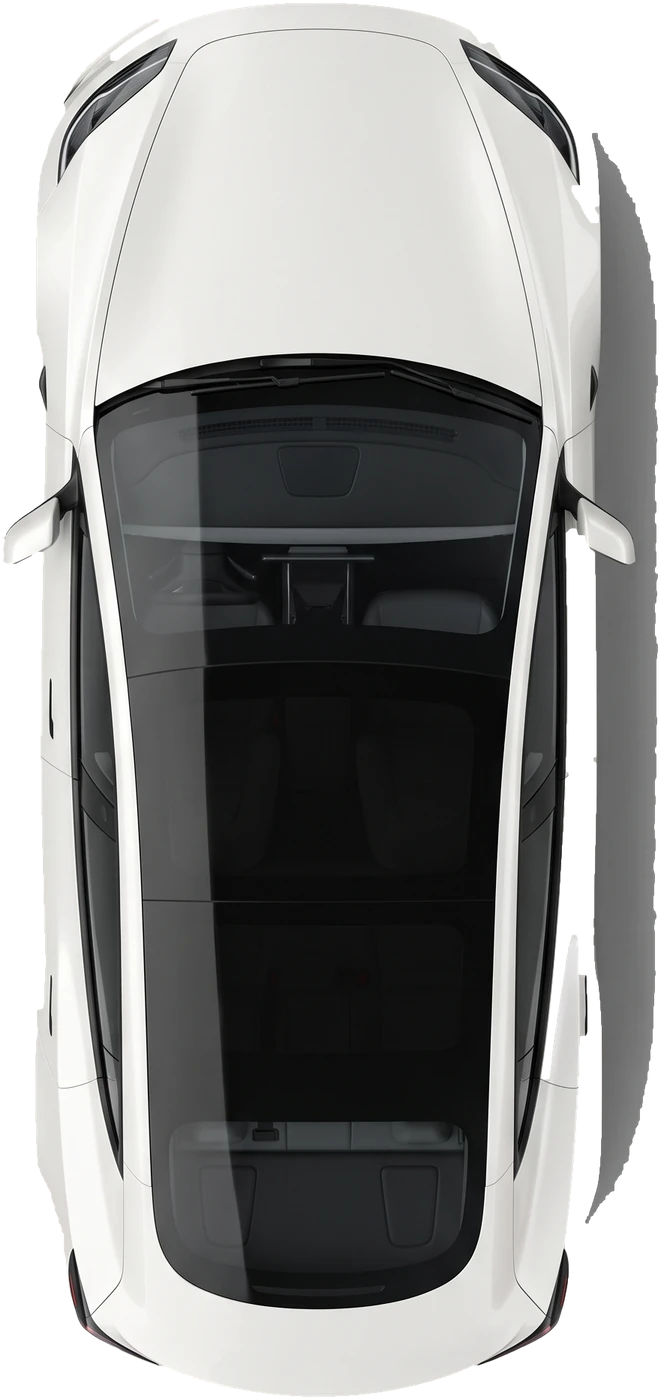
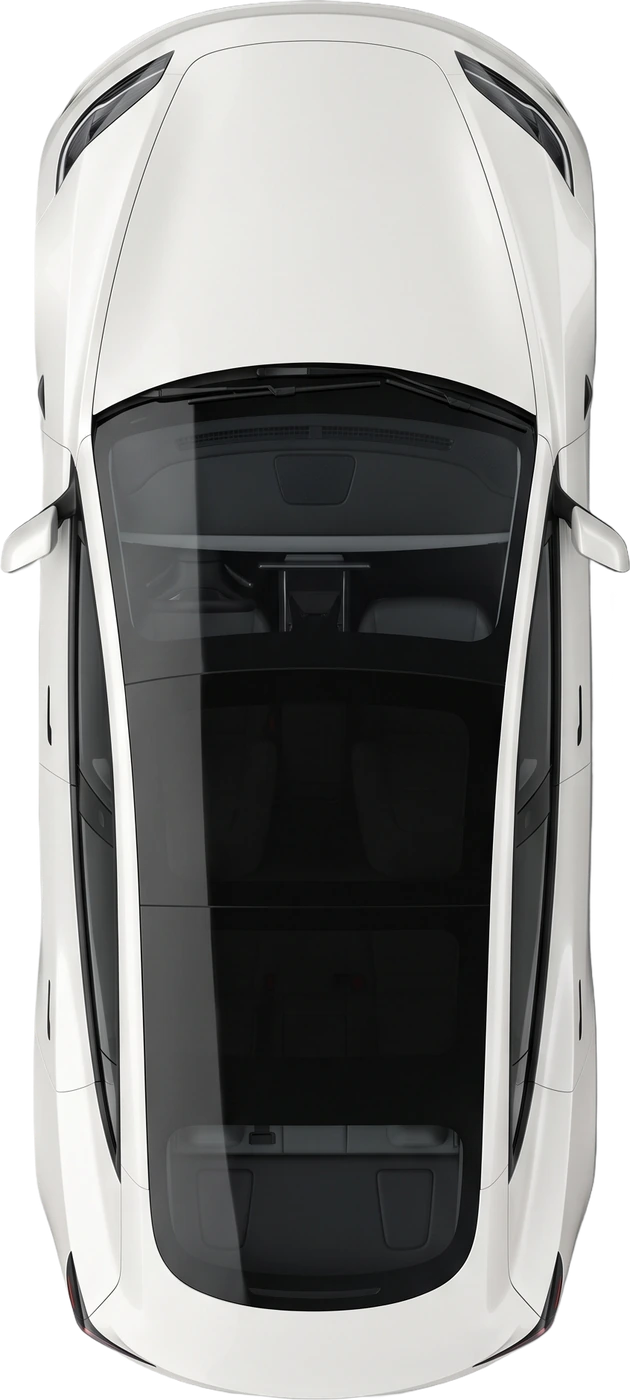
Wagen sauber freigestellt: Schattenrest an der rechten Flanke entfernt
Die eigene Freistellung ueber Helligkeitsschwellen hatte den Schlagschatten
an der Beifahrerseite mitgenommen - links endete die Silhouette bei x=42,
rechts bei x=655. Jetzt ueber den Background-Remover freigestellt:
Abweichung links/rechts 0 bis 1 Pixel.

diff --git a/index.html b/index.html
@@ -34,8 +34,8 @@ if (!location.hash) {
   addEventListener('load', () => { if (!location.hash) window.scrollTo(0, 0); });
 }
 </script>
-<link rel="stylesheet" href="css/style.css?v=20260822113941">
-<link rel="stylesheet" href="css/karte.css?v=20260822113941">
+<link rel="stylesheet" href="css/style.css?v=20260822114700">
+<link rel="stylesheet" href="css/karte.css?v=20260822114700">
 </head>
 <body>
 
@@ -114,7 +114,7 @@ if (!location.hash) {
   <button id="skip" class="skip" hidden>Überspringen</button>
 
   <div class="hero-grund" aria-hidden="true">
-    <img src="assets/img/allee.webp?v=20260822113941" alt="" decoding="async">
+    <img src="assets/img/allee.webp?v=20260822114700" alt="" decoding="async">
   </div>
 
   <svg id="scene" class="scene" viewBox="0 0 1000 1800" preserveAspectRatio="xMidYMid slice" aria-hidden="true">
@@ -138,7 +138,7 @@ if (!location.hash) {
     </defs>
 
     <!-- Die Allee -->
-    <image href="assets/img/allee.webp?v=20260822113941" x="0" y="0" width="1000" height="1800"
+    <image href="assets/img/allee.webp?v=20260822114700" x="0" y="0" width="1000" height="1800"
            preserveAspectRatio="xMidYMid slice"/>
 
     <!-- Perlen, die aus dem Heck rieseln -->
@@ -160,9 +160,9 @@ if (!location.hash) {
       <!-- Der Schatten bleibt unter dem Wagen. Steht er zu weit rechts,
            schaut er neben der Karosserie hervor und sieht aus wie
            ein zweites, dunkles Auto. -->
-      <ellipse cx="26" cy="54" rx="96" ry="250" fill="#120d07" opacity=".34" filter="url(#weich)"/>
+      <ellipse cx="24" cy="52" rx="99" ry="267" fill="#120d07" opacity=".34" filter="url(#weich)"/>
       <g filter="url(#tempo)">
-        <image href="assets/img/wagen.webp?v=20260822113941" x="-150" y="-318" width="300" height="635"/>
+        <image href="assets/img/wagen.webp?v=20260822114700" x="-150" y="-334" width="300" height="667"/>
       </g>
     </g>
 
@@ -185,7 +185,7 @@ if (!location.hash) {
   <!-- ---------- Kopf der Karte ---------- -->
   <section class="sek kopf" id="sek-kopf">
     <div class="kulisse" aria-hidden="true">
-      <img class="kulisse-grund" data-px="5" src="assets/img/rahmen.webp?v=20260822113941" alt="" loading="eager" decoding="async">
+      <img class="kulisse-grund" data-px="5" src="assets/img/rahmen.webp?v=20260822114700" alt="" loading="eager" decoding="async">
       <div class="tauben" id="tauben"></div>
       <div class="falterfeld" id="falterfeld"></div>
       <span class="kulisse-schleier"></span>
@@ -217,7 +217,7 @@ if (!location.hash) {
   </section>
   <!-- ---------- Ein Bild, das die Seite einmal aufreisst ---------- -->
   <section class="grossbild" id="sek-zitat" aria-label="Bildmoment">
-    <img class="gb-bild" data-px="8" src="assets/img/g4-tafel.webp?v=20260822113941" alt="" loading="lazy" decoding="async">
+    <img class="gb-bild" data-px="8" src="assets/img/g4-tafel.webp?v=20260822114700" alt="" loading="lazy" decoding="async">
     <span class="gb-schleier"></span>
     <div class="gb-text">
       <p class="gb-gross rv" data-rv="1" id="zitat-gross"></p>
@@ -226,7 +226,7 @@ if (!location.hash) {
   </section>
   <!-- ---------- Countdown (Kontrastmoment, volle Breite) ---------- -->
   <section class="sek-breit countdown" id="sek-countdown" aria-label="Countdown">
-    <img class="cd-grund" data-px="7" src="assets/img/g5-lichter.webp?v=20260822113941" alt="" loading="lazy" decoding="async">
+    <img class="cd-grund" data-px="7" src="assets/img/g5-lichter.webp?v=20260822114700" alt="" loading="lazy" decoding="async">
     <span class="cd-schleier"></span>
     <p class="ueberzeile hell" id="cd-ueber">Noch</p>
     <div class="cd-reihe" id="cd-reihe" role="timer" aria-live="off">
@@ -258,7 +258,7 @@ if (!location.hash) {
   <section class="sek ort" id="sek-ort">
     <h2 class="sek-titel rv" data-rv="1" id="ort-titel">Wo</h2>
     <figure class="ort-bild rv" data-rv="2">
-      <img data-px="6" src="assets/img/g3-bogen.webp?v=20260822113941" id="ort-foto" alt="" loading="lazy" decoding="async">
+      <img data-px="6" src="assets/img/g3-bogen.webp?v=20260822114700" id="ort-foto" alt="" loading="lazy" decoding="async">
     </figure>
     <div class="ort-raster">
       <div>
@@ -359,7 +359,7 @@ if (!location.hash) {
   </section>
   <!-- ---------- Abschied ---------- -->
   <section class="grossbild abschied" id="sek-abschied" aria-label="Abschied">
-    <img class="gb-bild" data-px="8" src="assets/img/g1-strauss.webp?v=20260822113941" alt="" loading="lazy" decoding="async">
+    <img class="gb-bild" data-px="8" src="assets/img/g1-strauss.webp?v=20260822114700" alt="" loading="lazy" decoding="async">
     <span class="gb-schleier"></span>
     <div class="gb-text">
       <p class="ab-gross rv" data-rv="1" id="abschied-gross"></p>
@@ -392,8 +392,8 @@ if (!location.hash) {
   <p class="lupe-text" id="lupe-text"></p>
 </div>
 
-<script src="js/config.js?v=20260822113941"></script>
-<script src="js/hero.js?v=20260822113941"></script>
-<script src="js/karte.js?v=20260822113941"></script>
+<script src="js/config.js?v=20260822114700"></script>
+<script src="js/hero.js?v=20260822114700"></script>
+<script src="js/karte.js?v=20260822114700"></script>
 </body>
 </html>

diff --git a/js/config.js b/js/config.js
@@ -11,7 +11,7 @@ window.HOCHZEIT = {
 
   // Wird von bin/veroeffentlichen.sh gesetzt und an alle Bilder gehaengt,
   // damit Browser nach einer Aenderung nicht die alte Fassung zeigen.
-  version: '20260822113941',
+  version: '20260822114700',
 
   /* ---------- Sprachen ---------- */
   standardsprache: 'de',
